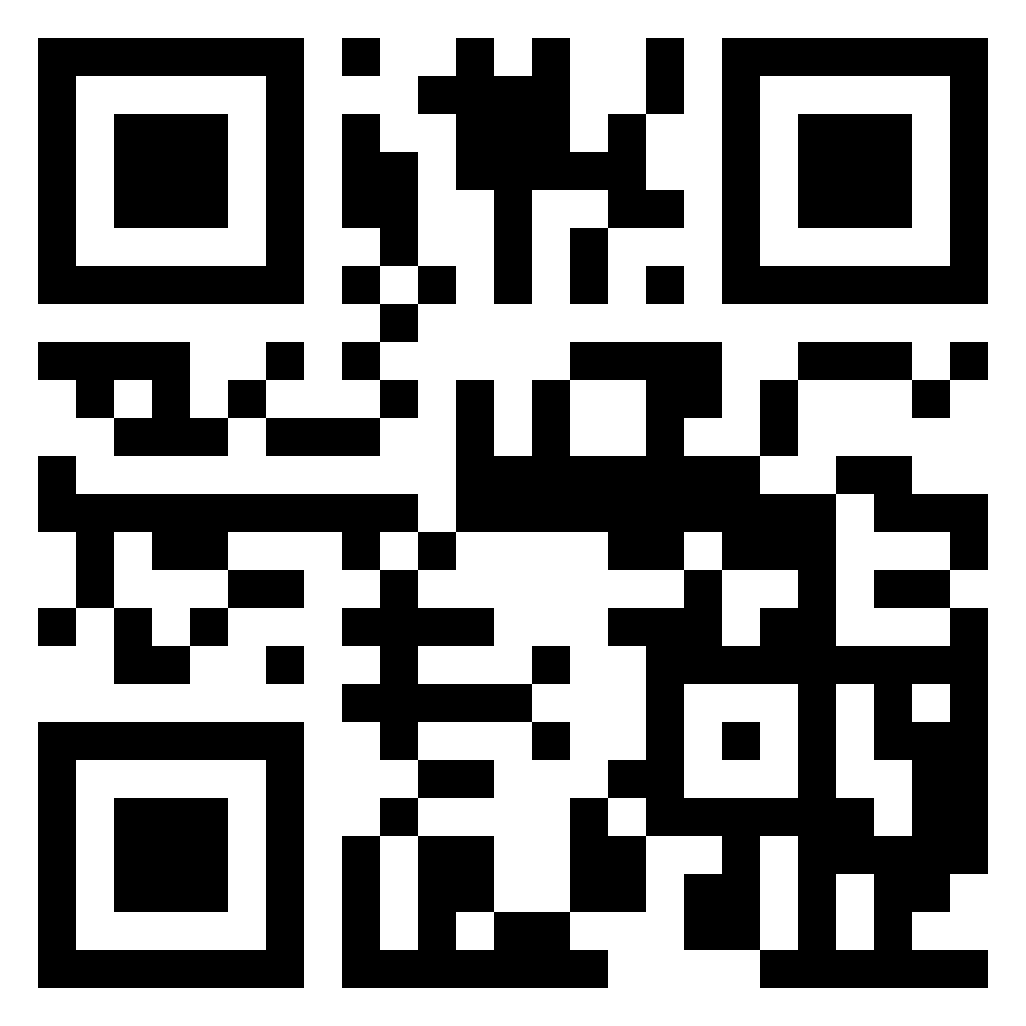
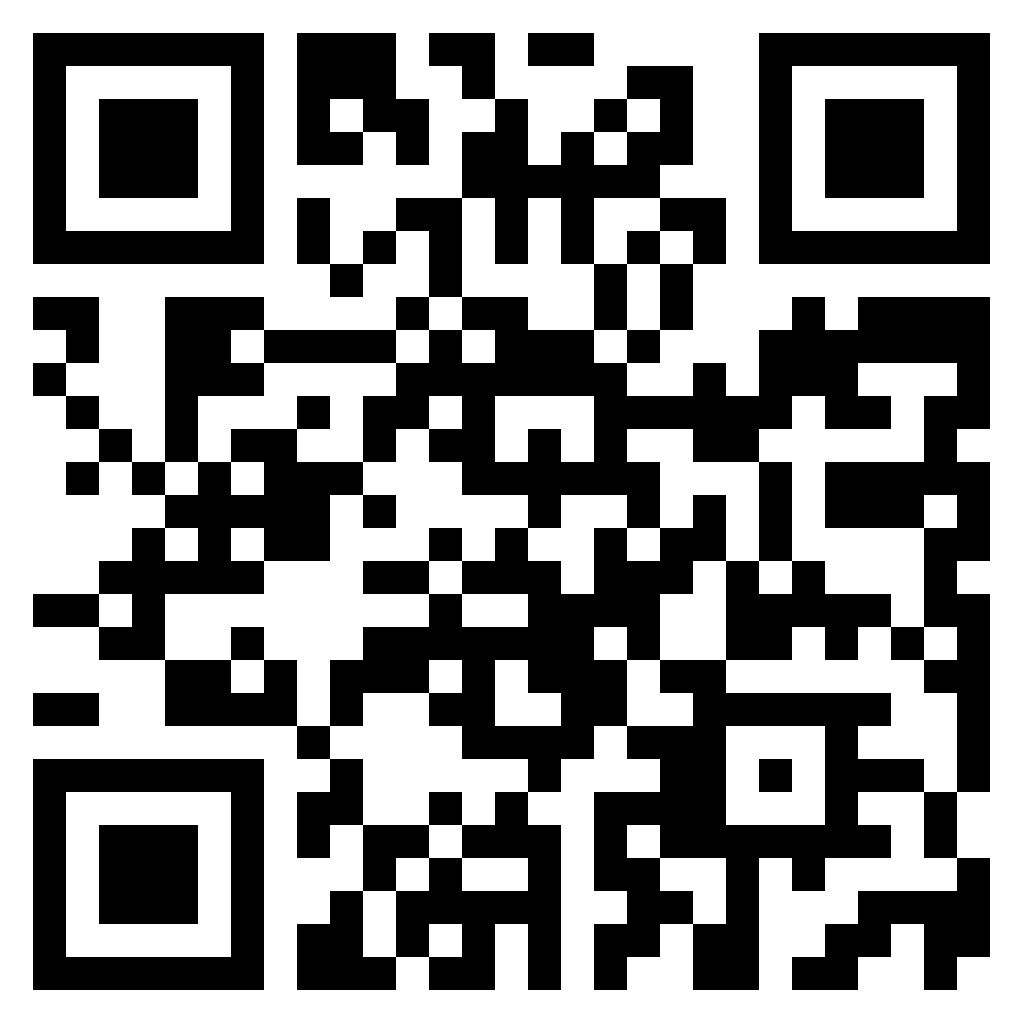
Edit WEBSITE_ROOT

diff --git a/src/connection.js b/src/connection.js
@@ -1,4 +1,4 @@
-const WEBSITE_ROOT = "http://localhost:3000";
+const WEBSITE_ROOT = "https://www.designworkplan.com/pongnub";
 const NO_ACTIVITY_TIME = 1000 * 60;
 
 let pubnub = new PubNub({
